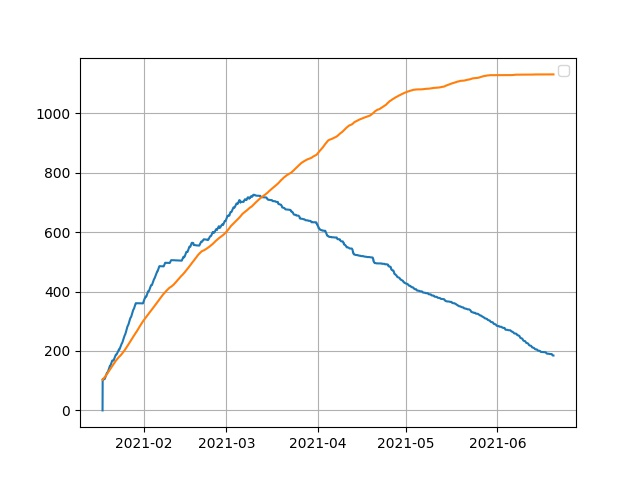
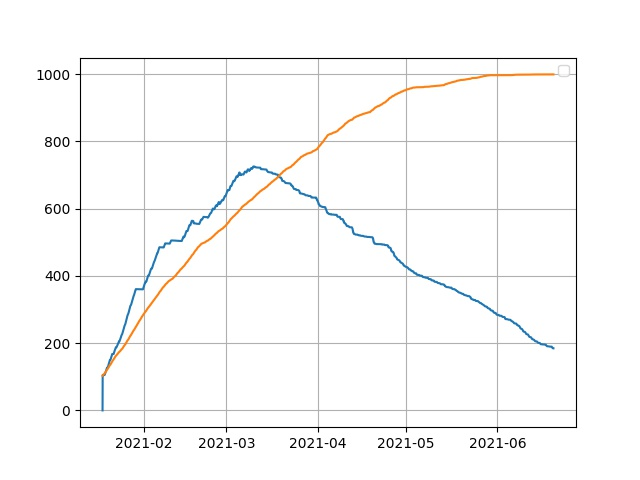
revised coeffs

diff --git a/src/plots/compare_func.py b/src/plots/compare_func.py
@@ -24,13 +24,13 @@ def datetime_to_int(dt):
     return int(dt.strftime("%H"))
 
 
-def autoDis(a1, a2, a3, b, amplitude, center, sigma, temp, time=10, rh=50, v=2):
+def autoDis(a, b, c, d, amplitude, center, sigma, temp, time=10, rh=50, v=2):
     model = GaussianModel()
     params = {"amplitude": amplitude, "center": center, "sigma": sigma}
-    return a1 * temp + a2 * rh + a3 * v + b + model.eval(x=time, **params)
+    return a * temp + b * rh + c * v + d + model.eval(x=time, **params)
 
-def simpleDis(a1, a2, a3, b, temp, rh=50, v=2):
-    return a1 * temp + a2 * rh + a3 * v + b 
+# def simpleDis(a1, a2, a3, b, temp, rh=50, v=2):
+#     return a1 * temp + a2 * rh + a3 * v + b 
 
 
 if __name__ == "__main__":
@@ -64,12 +64,12 @@ if __name__ == "__main__":
             i = row.Index
             if i !=0:
                 hour = datetime_to_int(row.time)
-                # df.loc[i, "dis_freeze"] = autoDis(
-                #     **param_values, time=hour, temp=row.temp, rh=row.RH, v=row.wind
-                # )
-                df.loc[i, "dis_freeze"] = simpleDis(
-                    **param_values, temp=row.temp, rh=row.RH, v=row.wind
+                df.loc[i, "dis_freeze"] = autoDis(
+                    **param_values, time=hour, temp=row.temp, rh=row.RH, v=row.wind
                 )
+                # df.loc[i, "dis_freeze"] = simpleDis(
+                #     **param_values, temp=row.temp, rh=row.RH, v=row.wind
+                # )
                  
                 if df.loc[i, "dis_freeze"] < 0:
                     df.loc[i, "dis_freeze"] = 0
